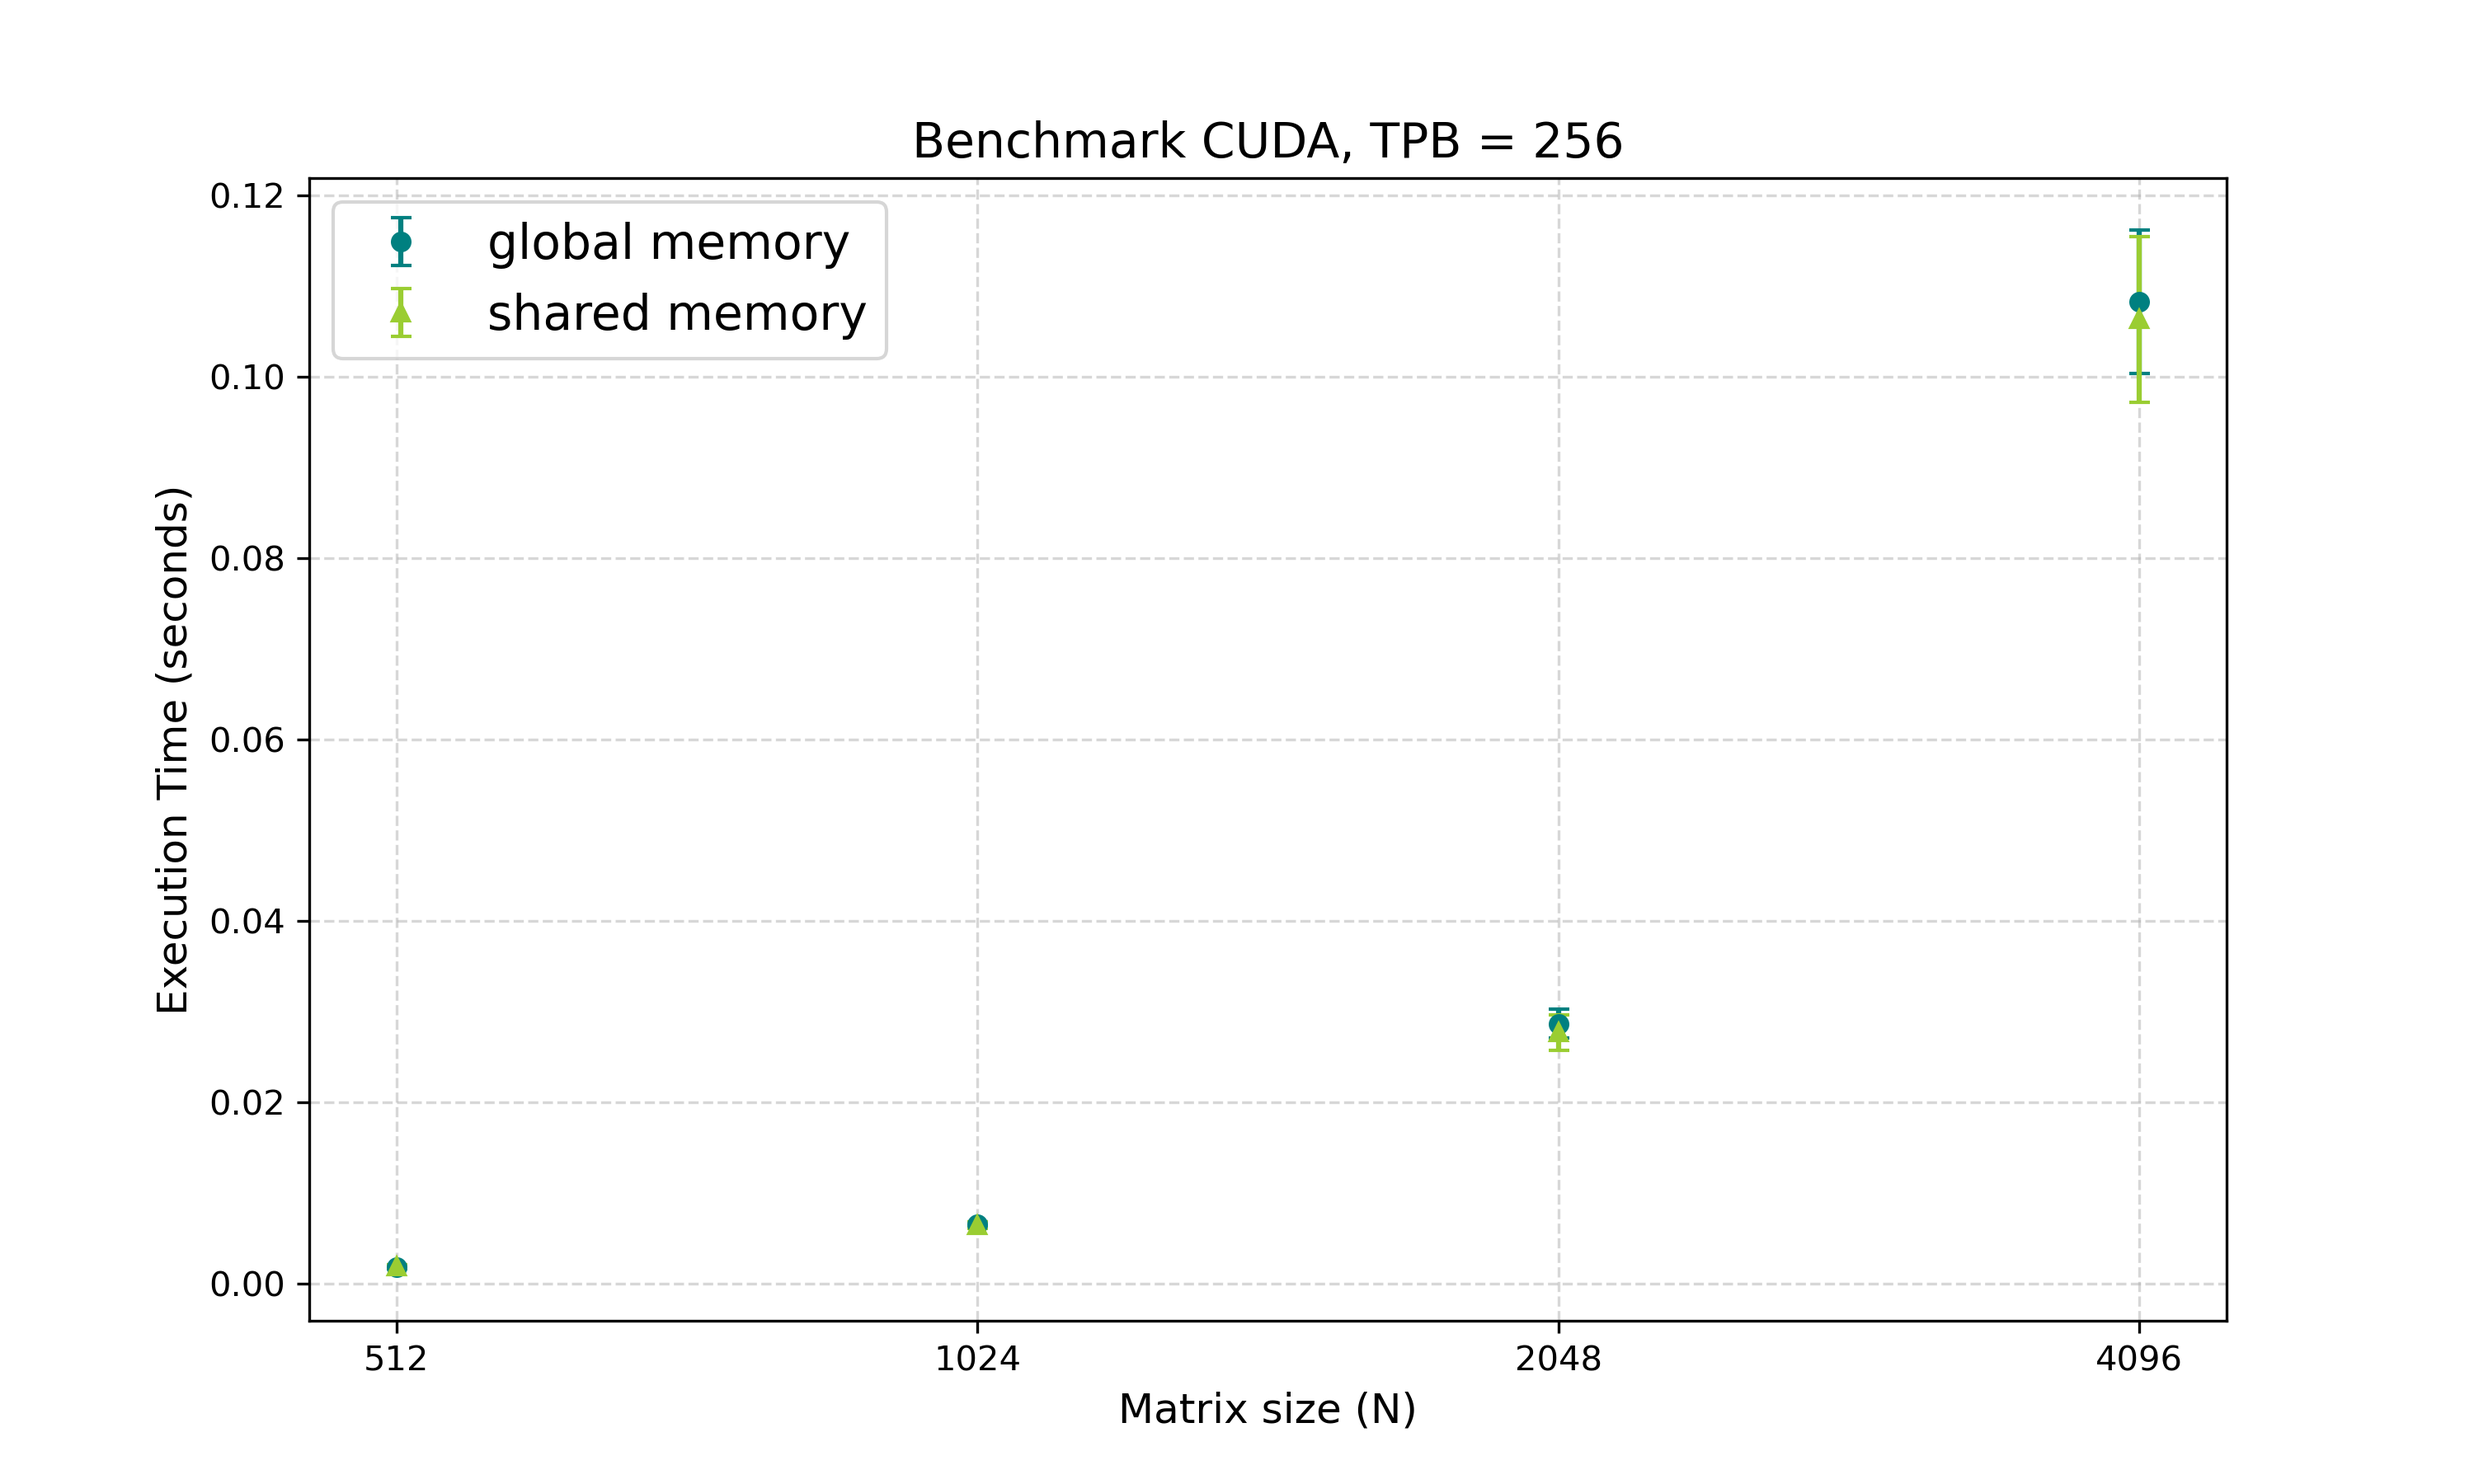
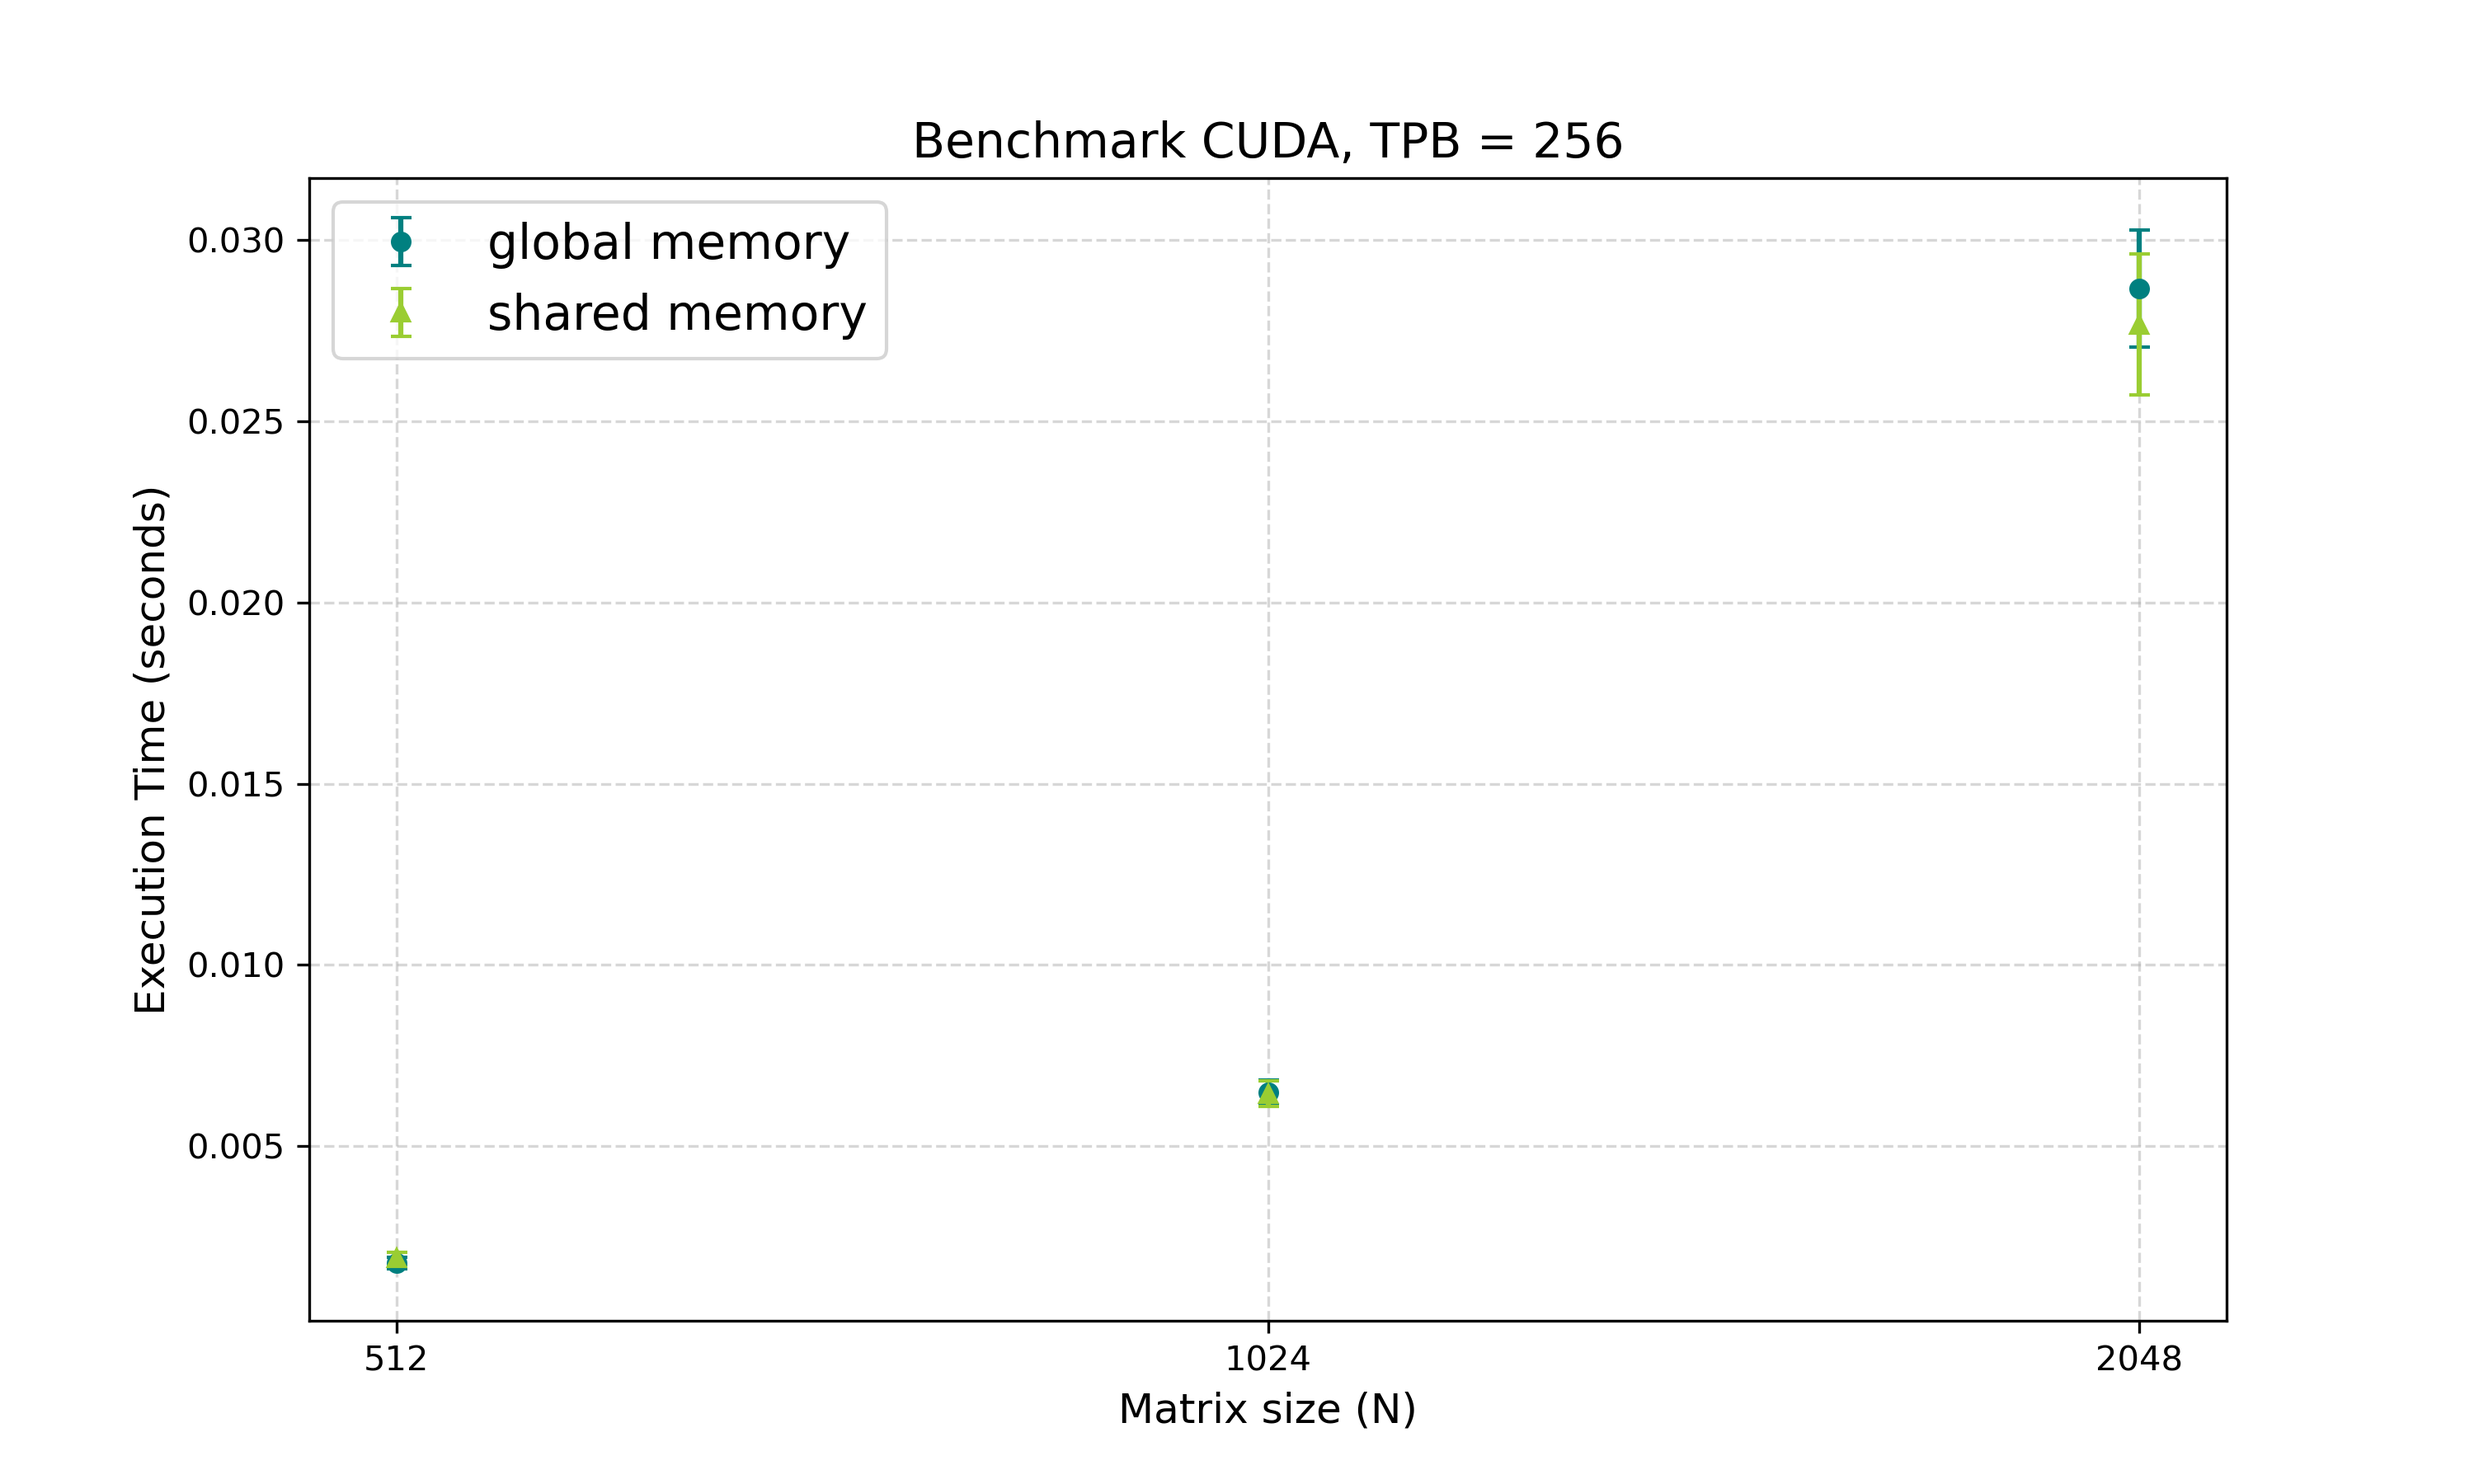
remove 4096 global vs shared

diff --git a/plot/plt_cuda_global_vs_shared.py b/plot/plt_cuda_global_vs_shared.py
@@ -12,7 +12,7 @@ except Exception as e:
     print(f"Error reading file: {e}")
     
 n = np.unique(df1['N'])
-x = np.arange(512, 4096)
+x = np.arange(512, 2048)
 
 mean_time1 = df1.groupby('N')['ExecutionTime'].mean().values
 mean_time2 = df2.groupby('N')['ExecutionTime'].mean().values
@@ -21,14 +21,14 @@ std_time1 = df1.groupby('N')['ExecutionTime'].std().values
 std_time2 = df2.groupby('N')['ExecutionTime'].std().values
 
 plt.figure(figsize=(10, 6))
-plt.errorbar(n, mean_time1, yerr=std_time1,
+plt.errorbar(n[:3], mean_time1[:3], yerr=std_time1[:3],
             fmt='o',
             ms=5,
             capsize=3,
             color='teal', 
             label='global memory',
             zorder=2)
-plt.errorbar(n, mean_time2, yerr=std_time2,
+plt.errorbar(n[:3], mean_time2[:3], yerr=std_time2[:3],
             fmt='^',
             ms=5,
             capsize=3,
@@ -40,7 +40,7 @@ plt.title('Benchmark CUDA, TPB = 256', fontsize=14)
 plt.xlabel('Matrix size (N)', fontsize=12)
 plt.ylabel('Execution Time (seconds)', fontsize=12)
 plt.xscale('log', base=2)
-plt.xticks(n, labels=n)
+plt.xticks(n[:3], labels=n[:3])
 plt.grid(True, linestyle='--', alpha=0.5)
 plt.legend(fontsize=14)
 	
